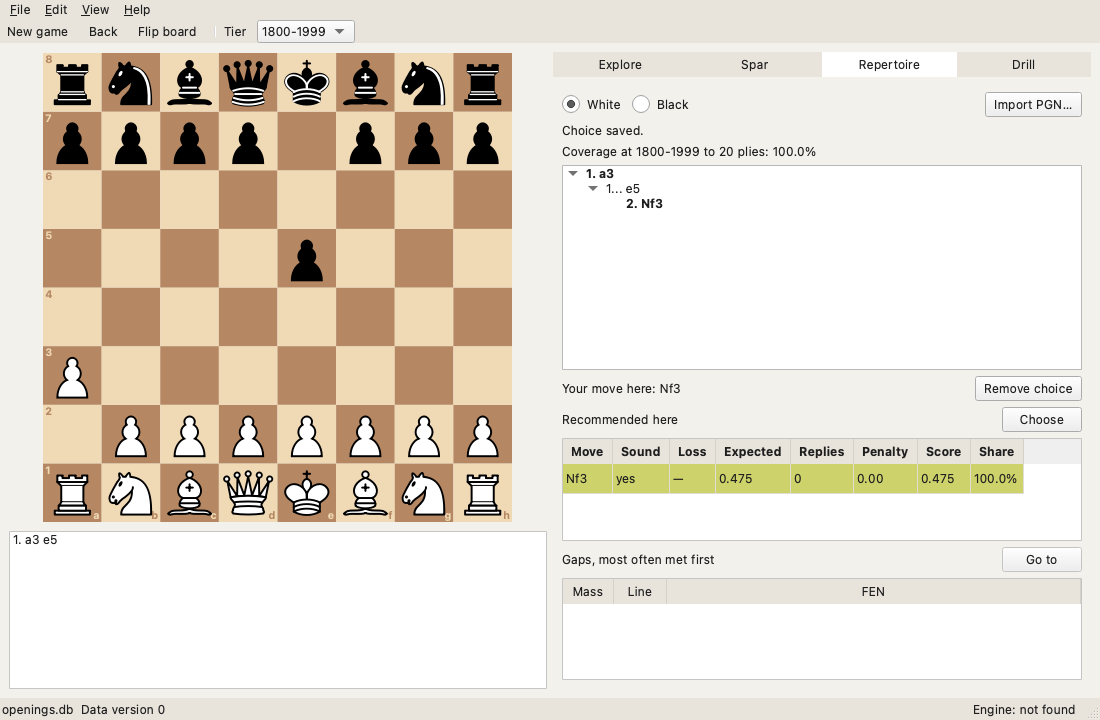
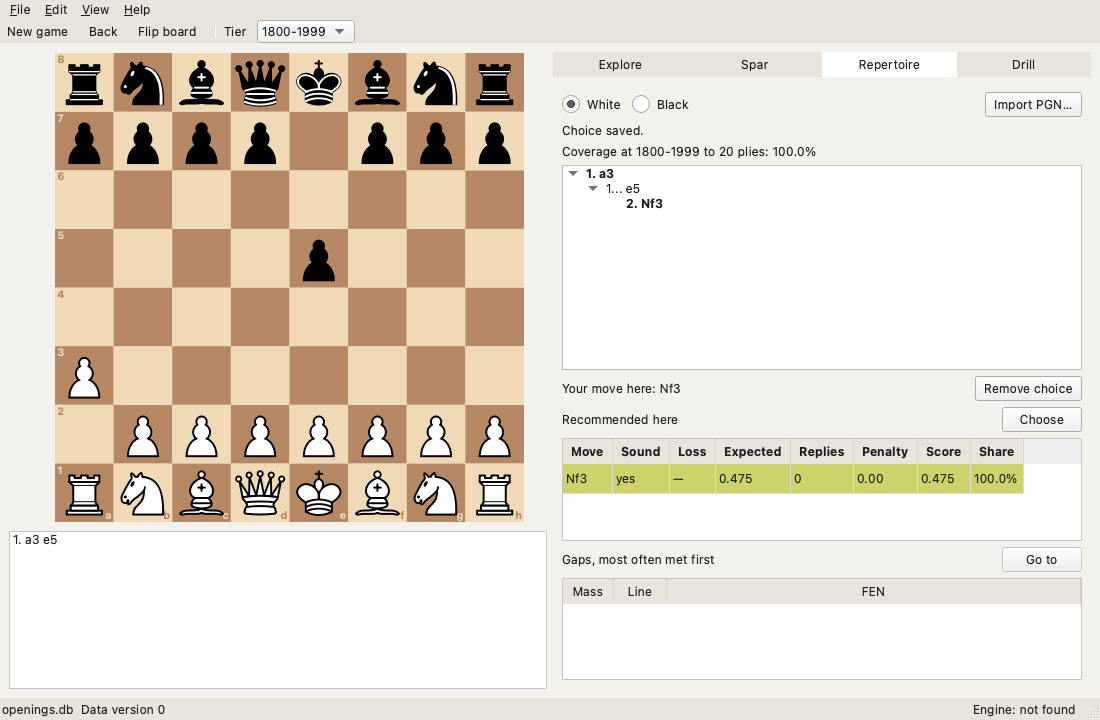
test(app): Make the app fixture's badges follow section 7.3
The fixture's badges were set by hand and several broke the contract's
rules: Book on moves whose parent has no tier-6 node or whose child is
unevaluated, Book missing on 1. e4 at tiers 0 and 4, Book on 1. Nf3,
and Popular and Dubious on 1. e4 e6, at 8% of the plays and without an
evaluation. Each badge is now what section 7.3 gives for the fixture's
rows. At tier 4, 1. d4 drops to nine plays, so that it is Book but not
Popular and stays below the sampler's 10 games.

The Explore test checks the Dubious 1. a3 at tier 4 in place of 1... e6,
and the Spar test reads 1. e4's new Book badge among the better
choices. The README's screenshots are taken again from the fixture.

Changed region(s): [[0.0309, 0.0611, 0.4945, 0.7333]]

diff --git a/app/tests/fixture_db.cpp b/app/tests/fixture_db.cpp
@@ -1,7 +1,8 @@
 // The app tests' opening database (fixture_db.hpp): the CLI fixture's rows (cli/tests/fixture.cpp,
 // which app/ cannot link), and a small tree at tier 4 for the Spar tests. The counts are consistent
 // with the counting rule of docs/database.md §6.4 at tier 3; tiers 0 and 6 hold only a few rows.
-// Badges are set by hand and are not recomputed from §7.
+// Badges are set by hand, as §7.3 gives them for these rows: Book only where the parent has a
+// tier-6 node, the move at least 5% of it and both positions evaluated within 50 cp.
 #include "fixture_db.hpp"
 
 #include <chesscoach/opening_schema.hpp>
@@ -146,8 +147,8 @@ const std::vector<NodeRow>& nodes() {
         node("e4 e5", 3, 140, 30, 130), node("d4", 3, 150, 30, 120),
         node("d4 d5", 3, 100, 20, 80),  node("Nf3", 3, 40, 10, 30),
         node("Nf3 d5", 3, 30, 5, 25),   node("d4 d5 Nf3", 3, 80, 15, 65),
-        node("f3 e5 g4", 0, 0, 0, 10),  node("", 4, 45, 17, 38),
-        node("e4", 4, 30, 10, 20),      node("d4", 4, 5, 2, 3),
+        node("f3 e5 g4", 0, 0, 0, 10),  node("", 4, 44, 17, 38),
+        node("e4", 4, 30, 10, 20),      node("d4", 4, 4, 2, 3),
         node("a3", 4, 10, 5, 15),       node("a3 e5", 4, 5, 3, 12),
     };
     return rows;
@@ -155,34 +156,34 @@ const std::vector<NodeRow>& nodes() {
 
 const std::vector<MoveRow>& moves() {
     static const std::vector<MoveRow> rows{
-        move("", 0, "e2e4", "e4", 5, 1, 6, 2),
+        move("", 0, "e2e4", "e4", 5, 1, 6, 3),
         move("", 0, "f2f3", "f3", 4, 0, 4, 2),
         move("", 3, "e2e4", "e4", 260, 60, 280, 3),
         move("", 3, "d2d4", "d4", 150, 30, 120, 3),
-        move("", 3, "g1f3", "Nf3", 40, 10, 30, 1),
+        move("", 3, "g1f3", "Nf3", 40, 10, 30, 0),
         move("", 3, "f2f3", "f3", 5, 0, 15, 0),
         move("", 6, "e2e4", "e4", 20, 15, 10, 3),
         move("", 6, "d2d4", "d4", 25, 15, 15, 3),
         move("e4", 3, "e7e5", "e4 e5", 140, 30, 130, 2),
         move("e4", 3, "c7c5", "e4 c5", 110, 20, 120, 3),
-        move("e4", 3, "e7e6", "e4 e6", 10, 10, 30, 6),
+        move("e4", 3, "e7e6", "e4 e6", 10, 10, 30, 0),
         move("e4", 6, "c7c5", "e4 c5", 12, 8, 6, 3),
-        move("e4 c5", 3, "g1f3", "e4 c5 Nf3", 70, 10, 70, 3),
+        move("e4 c5", 3, "g1f3", "e4 c5 Nf3", 70, 10, 70, 2),
         move("e4 c5", 3, "b1c3", "e4 c5 Nc3", 40, 10, 50, 2),
-        move("d4", 3, "d7d5", "d4 d5", 100, 20, 80, 3),
+        move("d4", 3, "d7d5", "d4 d5", 100, 20, 80, 2),
         move("d4", 3, "g8f6", "d4 Nf6", 50, 10, 40, 2),
-        move("d4 d5", 3, "g1f3", "d4 d5 Nf3", 50, 10, 40, 3),
-        move("d4 d5", 3, "c2c4", "d4 d5 c4", 50, 10, 40, 3),
-        move("Nf3", 3, "d7d5", "Nf3 d5", 30, 5, 25, 3),
+        move("d4 d5", 3, "g1f3", "d4 d5 Nf3", 50, 10, 40, 2),
+        move("d4 d5", 3, "c2c4", "d4 d5 c4", 50, 10, 40, 2),
+        move("Nf3", 3, "d7d5", "Nf3 d5", 30, 5, 25, 2),
         move("Nf3", 3, "g8f6", "Nf3 Nf6", 10, 5, 5, 2),
-        move("Nf3 d5", 3, "d2d4", "Nf3 d5 d4", 30, 5, 25, 3),
+        move("Nf3 d5", 3, "d2d4", "Nf3 d5 d4", 30, 5, 25, 2),
         move("f3 e5 g4", 0, "d8h4", "f3 e5 g4 Qh4#", 0, 0, 8, 2),
-        // Tier 4, for Spar: Popular 1. e4, Dubious 1. a3, Book 1. d4; after 1. a3 black's one
-        // candidate is e5; after 1. a3 e5 only 2. Nf3 was played, so anything else leaves the
-        // book.
-        move("", 4, "e2e4", "e4", 30, 10, 20, 2),
+        // Tier 4, for Spar: Book and Popular 1. e4, Dubious 1. a3, Book 1. d4 (9% of the plays,
+        // so not Popular, and below the sampler's 10 games); after 1. a3 black's one candidate is
+        // e5; after 1. a3 e5 only 2. Nf3 was played, so anything else leaves the book.
+        move("", 4, "e2e4", "e4", 30, 10, 20, 3),
         move("", 4, "a2a3", "a3", 10, 5, 15, 6),
-        move("", 4, "d2d4", "d4", 5, 2, 3, 1),
+        move("", 4, "d2d4", "d4", 4, 2, 3, 1),
         move("a3", 4, "e7e5", "a3 e5", 5, 3, 12, 2),
         move("a3 e5", 4, "g1f3", "a3 e5 Nf3", 3, 2, 5, 2),
     };

diff --git a/app/tests/ui_explore_test.cpp b/app/tests/ui_explore_test.cpp
@@ -144,6 +144,15 @@ class ExploreTest : public QObject {
         QCOMPARE(child<QLabel>(window, QStringLiteral("explore_games")).text(),
                  QStringLiteral("1000 games at 1600-1799"));
         save_screenshot(window, QStringLiteral("explore"), QStringLiteral("start-tier3"));
+
+        // Tier 4: 1. a3 is Popular and Dubious, losing 109 cp.
+        select_tier(window, 4);
+        QTRY_COMPARE(table_moves(window), (QStringList{QStringLiteral("e4"), QStringLiteral("a3"),
+                                                       QStringLiteral("d4")}));
+        QCOMPARE(cell(window, 1, ExploreModel::badges_column), QStringLiteral("PD"));
+        QCOMPARE(model(window).index(1, ExploreModel::badges_column).data(Qt::ToolTipRole),
+                 QStringLiteral("Popular, Dubious"));
+        QCOMPARE(cell(window, 2, ExploreModel::badges_column), QStringLiteral("B"));
     }
 
     void switching_tiers_changes_the_table() {
@@ -179,9 +188,8 @@ class ExploreTest : public QObject {
                  QStringLiteral("B00 King's Pawn Game"));
         // Black to move: the score is black's.
         QCOMPARE(cell(window, 0, ExploreModel::score_column), QStringLiteral("48.3"));
-        QCOMPARE(cell(window, 2, ExploreModel::badges_column), QStringLiteral("PD"));
-        QCOMPARE(model(window).index(2, ExploreModel::badges_column).data(Qt::ToolTipRole),
-                 QStringLiteral("Popular, Dubious"));
+        QCOMPARE(cell(window, 1, ExploreModel::badges_column), QStringLiteral("BP"));
+        QCOMPARE(cell(window, 2, ExploreModel::badges_column), QString()); // 8%, unevaluated
 
         click(board, "c7");
         click(board, "c5");

diff --git a/app/tests/ui_spar_test.cpp b/app/tests/ui_spar_test.cpp
@@ -124,7 +124,7 @@ void meet_a_dubious_move(MainWindow& window, const BoardView& board) {
              QStringLiteral("a3 played: PD, loses 109 cp"));
     QCOMPARE(rows(window, QStringLiteral("spar_better")), 2);
     QCOMPARE(cell(window, QStringLiteral("spar_better"), 0, 0), QStringLiteral("e4"));
-    QCOMPARE(cell(window, QStringLiteral("spar_better"), 0, 1), QStringLiteral("P"));
+    QCOMPARE(cell(window, QStringLiteral("spar_better"), 0, 1), QStringLiteral("BP"));
     QCOMPARE(cell(window, QStringLiteral("spar_better"), 0, 2), QStringLiteral("60"));
     QCOMPARE(cell(window, QStringLiteral("spar_better"), 1, 0), QStringLiteral("d4"));
     QCOMPARE(cell(window, QStringLiteral("spar_better"), 1, 1), QStringLiteral("B"));
